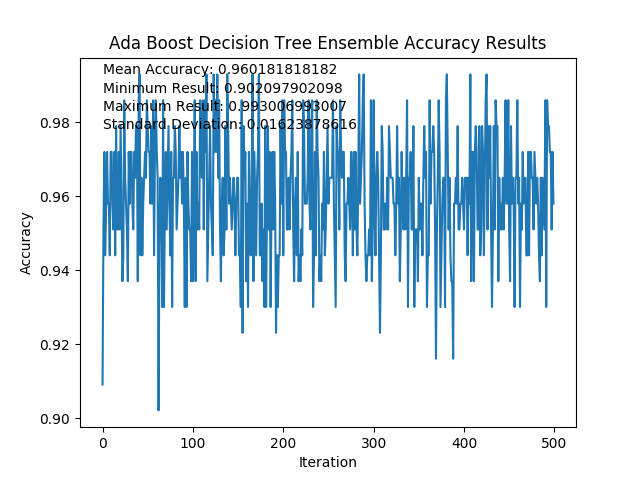
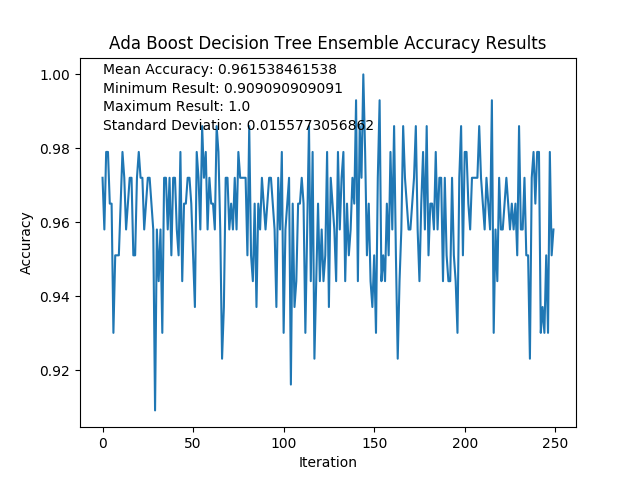
changed results

diff --git a/templates/partials/upload_form.html b/templates/partials/upload_form.html
@@ -1,6 +1,44 @@
 <form action="/upload" method="post" enctype="multipart/form-data">
+  <span style="color: red;">¡Ambos archivos deben ser del formato .csv!</span>
+  <label> Primero ingresarás los datos de entrenamiento. Recordá que la primer columna debe contener el dato que se quiere clasificar o estimar y que debe contener los nombres de las columnas al principio. Por ejemplo:</label>
+  <table class="table table-bordered">
+    <thead>
+      <th>Variable a predecir</th>
+      <th>A</th>
+      <th>B</th>
+    </thead>
+    <tr>
+      <td>X</td>
+      <td>1</td>
+      <td>2</td>
+    </tr>
+    <tr>
+      <td>Y</td>
+      <td>3</td>
+      <td>4</td>
+    </tr>
+  </table>
+  <span style="color: red;">¡Recordá que si es una acción de estimación no debe contener la primer columna con el dato a clasificar!</span>
+  <br>
+  Por ejemplo:
+    <table class="table table-bordered">
+    <thead>
+      <th>A</th>
+      <th>B</th>
+    </thead>
+    <tr>
+      <td>1</td>
+      <td>2</td>
+    </tr>
+    <tr>
+      <td>3</td>
+      <td>4</td>
+    </tr>
+  </table>
+  <label>Datos de entrenamiento</label>
   <input type="file" name="train_test_set" hidden>
   <br>
+  <label>Datos a predecir. Recordá que aquí no debe estar la primer columna ni los nombres de las columnas.</label>
   <input type="file" name="predict_set" hidden>
   <br>
   <input class="btn btn-primary" type="submit" value="¡Subir!" name="submit">

diff --git a/main.py b/main.py
@@ -53,7 +53,7 @@ def machine_learning():
 		results = []
 		results_f1 = []
 		time_results = []
-		for i in range(0, 500):
+		for i in range(0, 250):
 			x_train, x_test, y_train, y_test = train_test_split(features, labels)
 			start_time = time.time()
 			# Model training and performance testing
@@ -73,7 +73,7 @@ def machine_learning():
 		print("f1 score mean: ", f1_score_mean)
 		print("Time mean: ", np.mean(time_results))
 		print("Time standard deviation: ", np.std(time_results))
-		plotting_range = list(range(0, 500))
+		plotting_range = list(range(0, 250))
 		# Plot individual accuracy
 		plt.figure(1)
 		plt.title(model_name + " Accuracy Results")
@@ -88,7 +88,7 @@ def machine_learning():
 		plt.clf()
 		# Plot all accuracies
 		plt.figure(2)
-		plt.axis([0, 500, 0.35, 1.0])
+		plt.axis([0, 250, 0.35, 1.0])
 		plt.title("Full Accuracy Results")
 		p = plt.plot(plotting_range, results)
 		color = p[0].get_color()
@@ -108,7 +108,7 @@ def machine_learning():
 		plt.clf()
 		# Plot all F1 Scores
 		plt.figure(4)
-		plt.axis([0, 500, 0.35, 1.0])
+		plt.axis([0, 250, 0.35, 1.0])
 		plt.title("Full F1 Score Results")
 		p = plt.plot(plotting_range, results_f1)
 		color = p[0].get_color()
